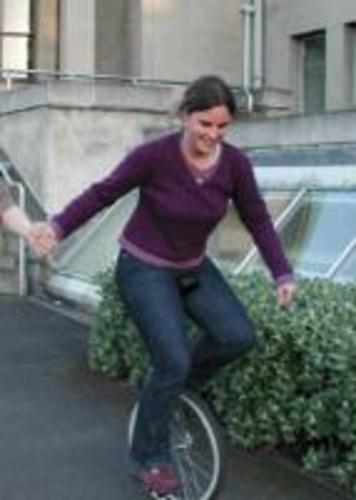
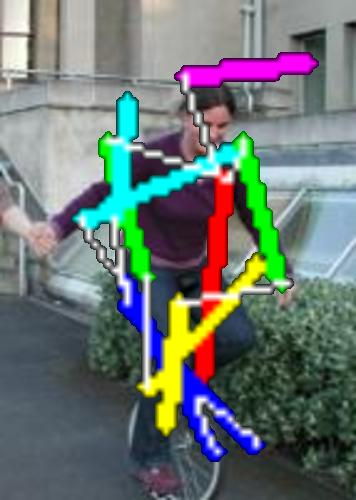
ensured works w/ sift bb

Changed region(s): [[0.1854, 0.09, 0.8961, 0.93]]

diff --git a/Scripts/Calvin detector/pose_estimation_code_release_v1.22/code/DetectAndEstim.m b/Scripts/Calvin detector/pose_estimation_code_release_v1.22/code/DetectAndEstim.m
@@ -1,0 +1,48 @@
+function DetectAndEstim(img_dir,img_name,pffubfmodel_path,facemodel_path,det_pars,classname,fghigh_pars,parse_pars,addinf_pars,segm_pars,verbose)
+    %parse_pars.use_fg_high = false % uncomment this line if you want to skip the foreground highlighting stage
+    stick_coor = cell(0);
+    T = struct('D',{}, 'FGH',{}, 'PM',{},'CM',{});
+    
+    outname_mat = fullfile(img_dir,[img_name '_' classname '_pms.mat']);
+    if exist(outname_mat,'file')
+      return;
+    end
+    if verbose
+    t = tic;
+    end
+    detections = DetectStillImage(fullfile(img_dir,img_name),pffubfmodel_path,facemodel_path,det_pars,verbose);
+    if verbose 
+    disp(['Detecting people: ' num2str(toc(t)) ' sec.']);
+    end
+    if ~isempty(detections)
+    %convert coordinates from [x1 y1 x2 y2] to [x y width height]
+    detections(:,3:4) = detections(:,3:4) - detections(:,1:2) +1;
+    
+    img_name_format = [imgname '_%d' imgext];
+    temp_dir = 'temp';
+    if ~exist(fullfile(img_dir,temp_dir),'dir')
+      mkdir(fullfile(img_dir,temp_dir));
+    end
+    dets_dir = 'dets';
+    if ~exist(fullfile(img_dir,dets_dir),'dir')
+      mkdir(fullfile(img_dir,dets_dir));
+    end
+    
+    img = imread(fullfile(img_dir,Files(idx).name));
+    
+    for dix=1:size(detections,1) % run pose estimation for every detection
+      imwrite(img,fullfile(img_dir,temp_dir,sprintf(img_name_format,dix)));
+      [T(dix) stick_coor{dix}] = PoseEstimStillImage(img_dir,temp_dir,img_name_format,dix, classname, round(detections(dix,1:4)'), fghigh_pars, parse_pars, addinf_pars, segm_pars, verbose);
+      delete(fullfile(img_dir,temp_dir,sprintf(img_name_format,dix)));
+    end
+    
+    if ~isempty(detections)
+      for d=1:size(detections,1)
+        img = PaintBB(img,round(detections(d,1:4)),[1 0 0],[1 2 3]);
+      end
+    end
+    detfile = fullfile(img_dir,dets_dir,[imgname '_d' imgext]);
+    imwrite(img,detfile);
+    end
+    save(outname_mat,'T','stick_coor','detections');
+end

diff --git a/Scripts/test.m b/Scripts/test.m
@@ -1,7 +1,7 @@
 function test(varargin)
 setup;
-%load("Calvin detector/pose_estimation_code_release_v1.22/code/env.mat");
-load("Calvin detector/calvin_upperbody_detector_v1.04/code/detenv.mat");
+load("Calvin detector/pose_estimation_code_release_v1.22/code/env.mat");
+%load("Calvin detector/calvin_upperbody_detector_v1.04/code/detenv.mat");
 pic = 'rock_climbing.jpg';
 if (nargin > 0)
     pic = varargin{1};
@@ -134,8 +134,6 @@ disp(['Left: ', num2str(left)]);
 disp(['Right: ', num2str(right)]);
 
 %parse_params_Buffy3and4andPascal.use_fg_high = false;
-%[T, sticks_imgcoor] = PoseEstimStillImage(pwd, '/', pic, 1, 'full', [1 1 987 1244]', fghigh_params, parse_params_Buffy3and4andPascal, [], pm2segms_params, true);
-
-[ubfdetections] = DetectStillImage(pic,'pff_model_upperbody_final.mat',[],det_pars,2)
+[T, sticks_imgcoor] = PoseEstimStillImage(pwd, 'Images/', pic, 1, 'full', [left top right bottom]', fghigh_params, parse_params_Buffy3and4andPascal, [], pm2segms_params, true);
 
 end

diff --git a/Scripts/Calvin detector/pose_estimation_code_release_v1.22/code/utils/imresize_vitto.m b/Scripts/Calvin detector/pose_estimation_code_release_v1.22/code/utils/imresize_vitto.m
@@ -1,11 +1,2 @@
 function Iout = imresize_vitto(I, varargin)
-
-% imresize compatible with matlab 2006 upwards
-%
-
-temp = version('-release');
-if str2double(temp(1:4)) > 2006
-  Iout = imresize_old(I, varargin{:});
-else
-  Iout = imresize(I, varargin{:});
-end
+    Iout = imresize(I, varargin{:});
